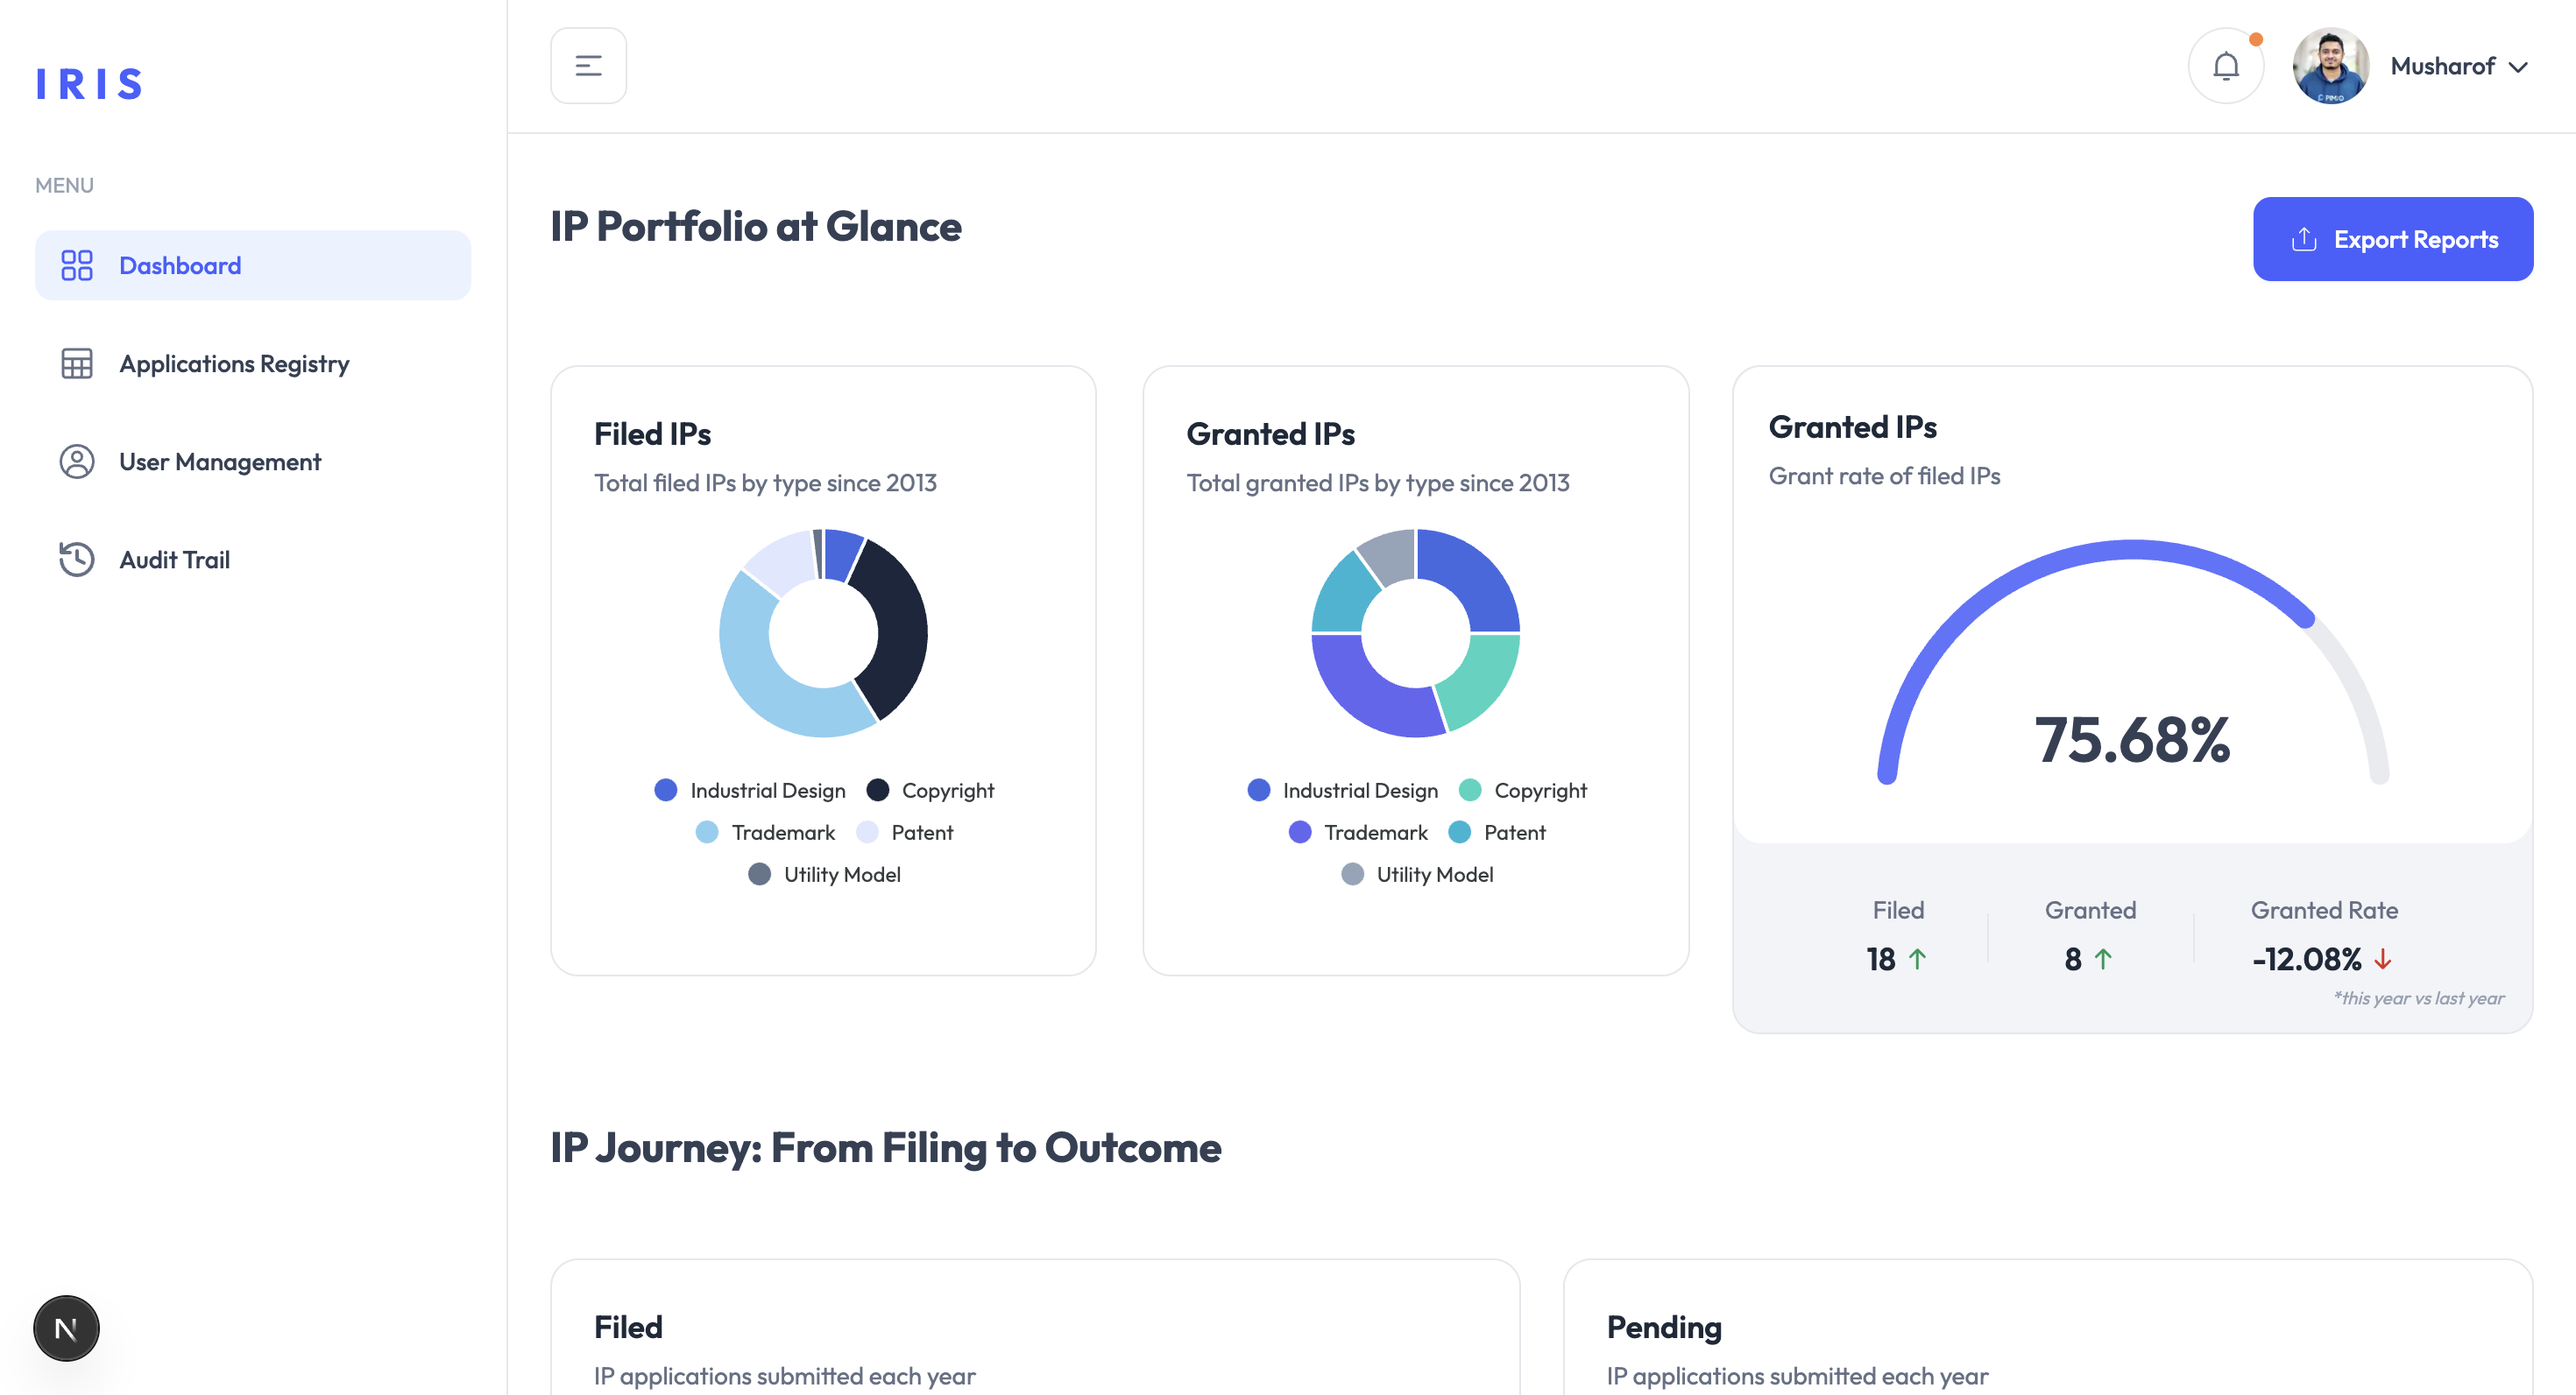
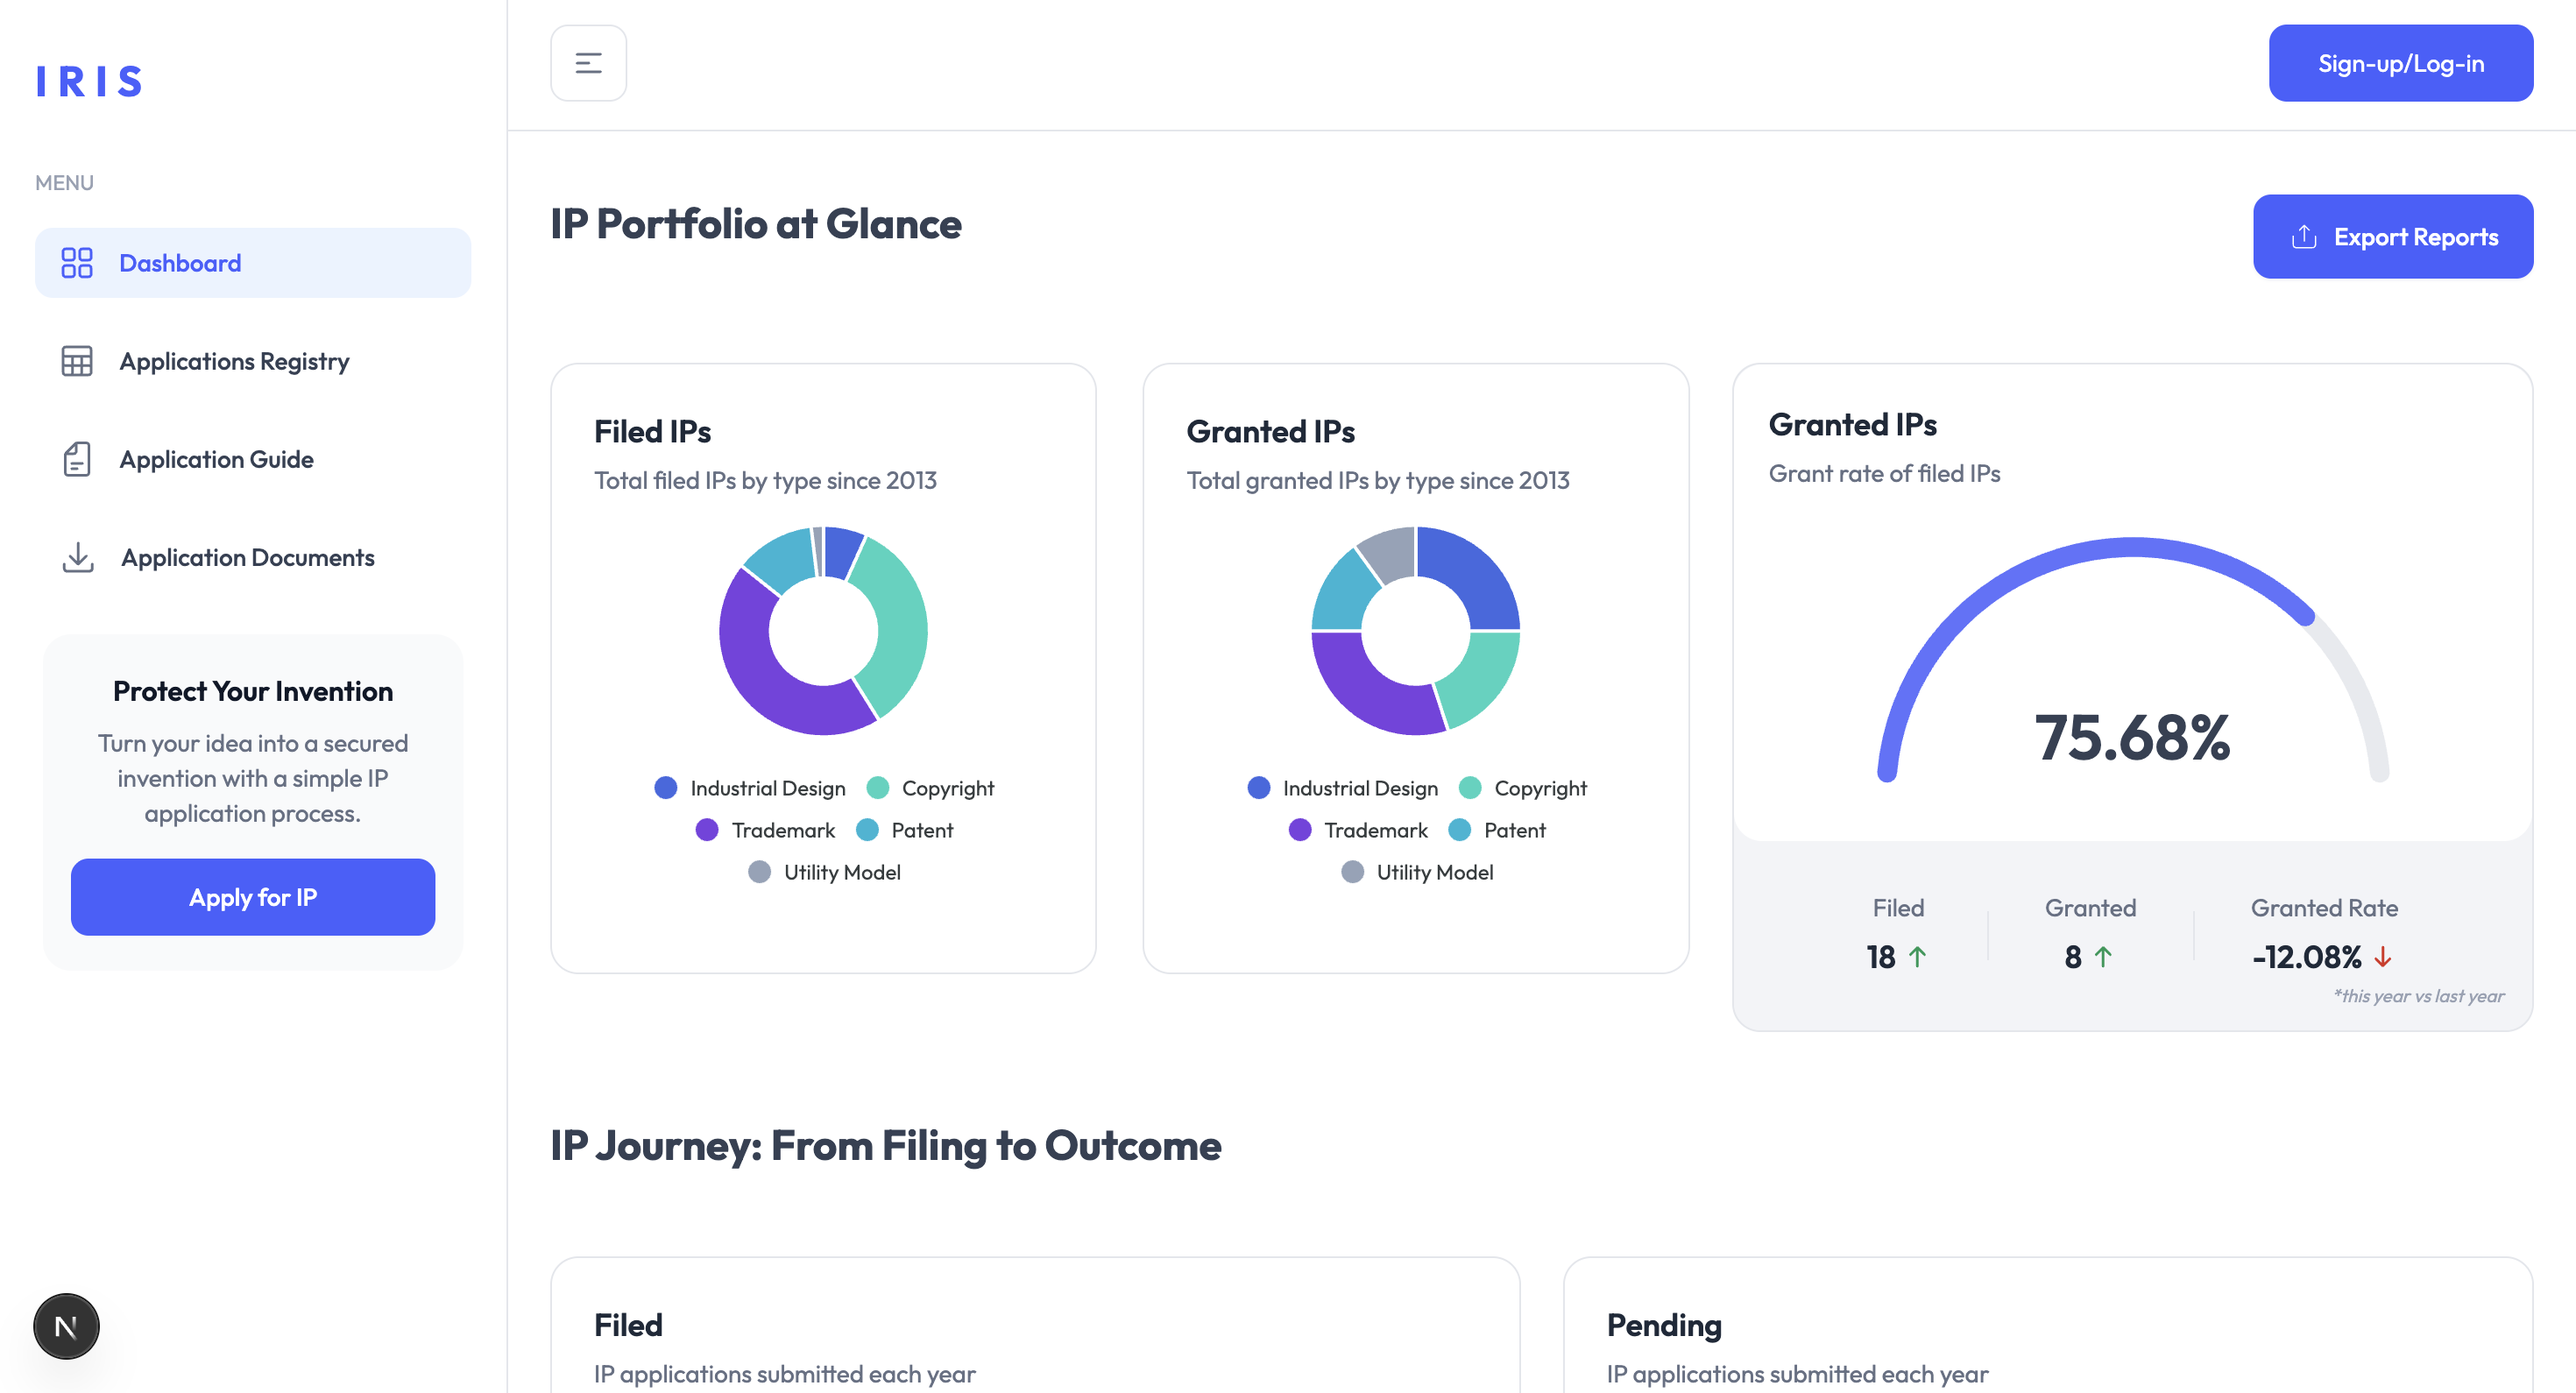
[Olana][Enhancement] Pie Charts color change

diff --git a/code/src/components/common/Dashboard.tsx b/code/src/components/common/Dashboard.tsx
@@ -5,7 +5,7 @@ import DonutChart from "@/components/charts/DonutChart";
 import Button from "@/components/ui/button/Button";
 import { CiExport } from "react-icons/ci";
 import { PIE_SERIES_2 } from "@/lib/dummy-data/metrics";
-import { ANALOGOUS_COLORS, MONOCHROMATIC_COLORS } from "@/lib/constants/ui";
+import { ANALOGOUS_COLORS } from "@/lib/constants/ui";
 
 export default function Dashboard() {
   return (
@@ -23,7 +23,7 @@ export default function Dashboard() {
           <PieChart
             title="Filed IPs"
             subtitle="Total filed IPs by type since 2013"
-            colors={MONOCHROMATIC_COLORS}
+            colors={ANALOGOUS_COLORS}
           />
         </div>
         <div className="w-[48%]">

diff --git a/code/src/lib/constants/ui.ts b/code/src/lib/constants/ui.ts
@@ -26,5 +26,5 @@ export const COLORS = [
 
 export const MONOCHROMATIC_COLORS = ["#4169E1", "#1B263B", "#89CFF0", "#E0E7FF", "#64748B"];
 
-export const ANALOGOUS_COLORS = ["#4169E1", "#2DD4BF", "#6366F1", "#06B6D4", "#94A3B8"];
+export const ANALOGOUS_COLORS = ["#4169E1", "#2DD4BF", "#7941e1ff", "#06B6D4", "#94A3B8"];
   
